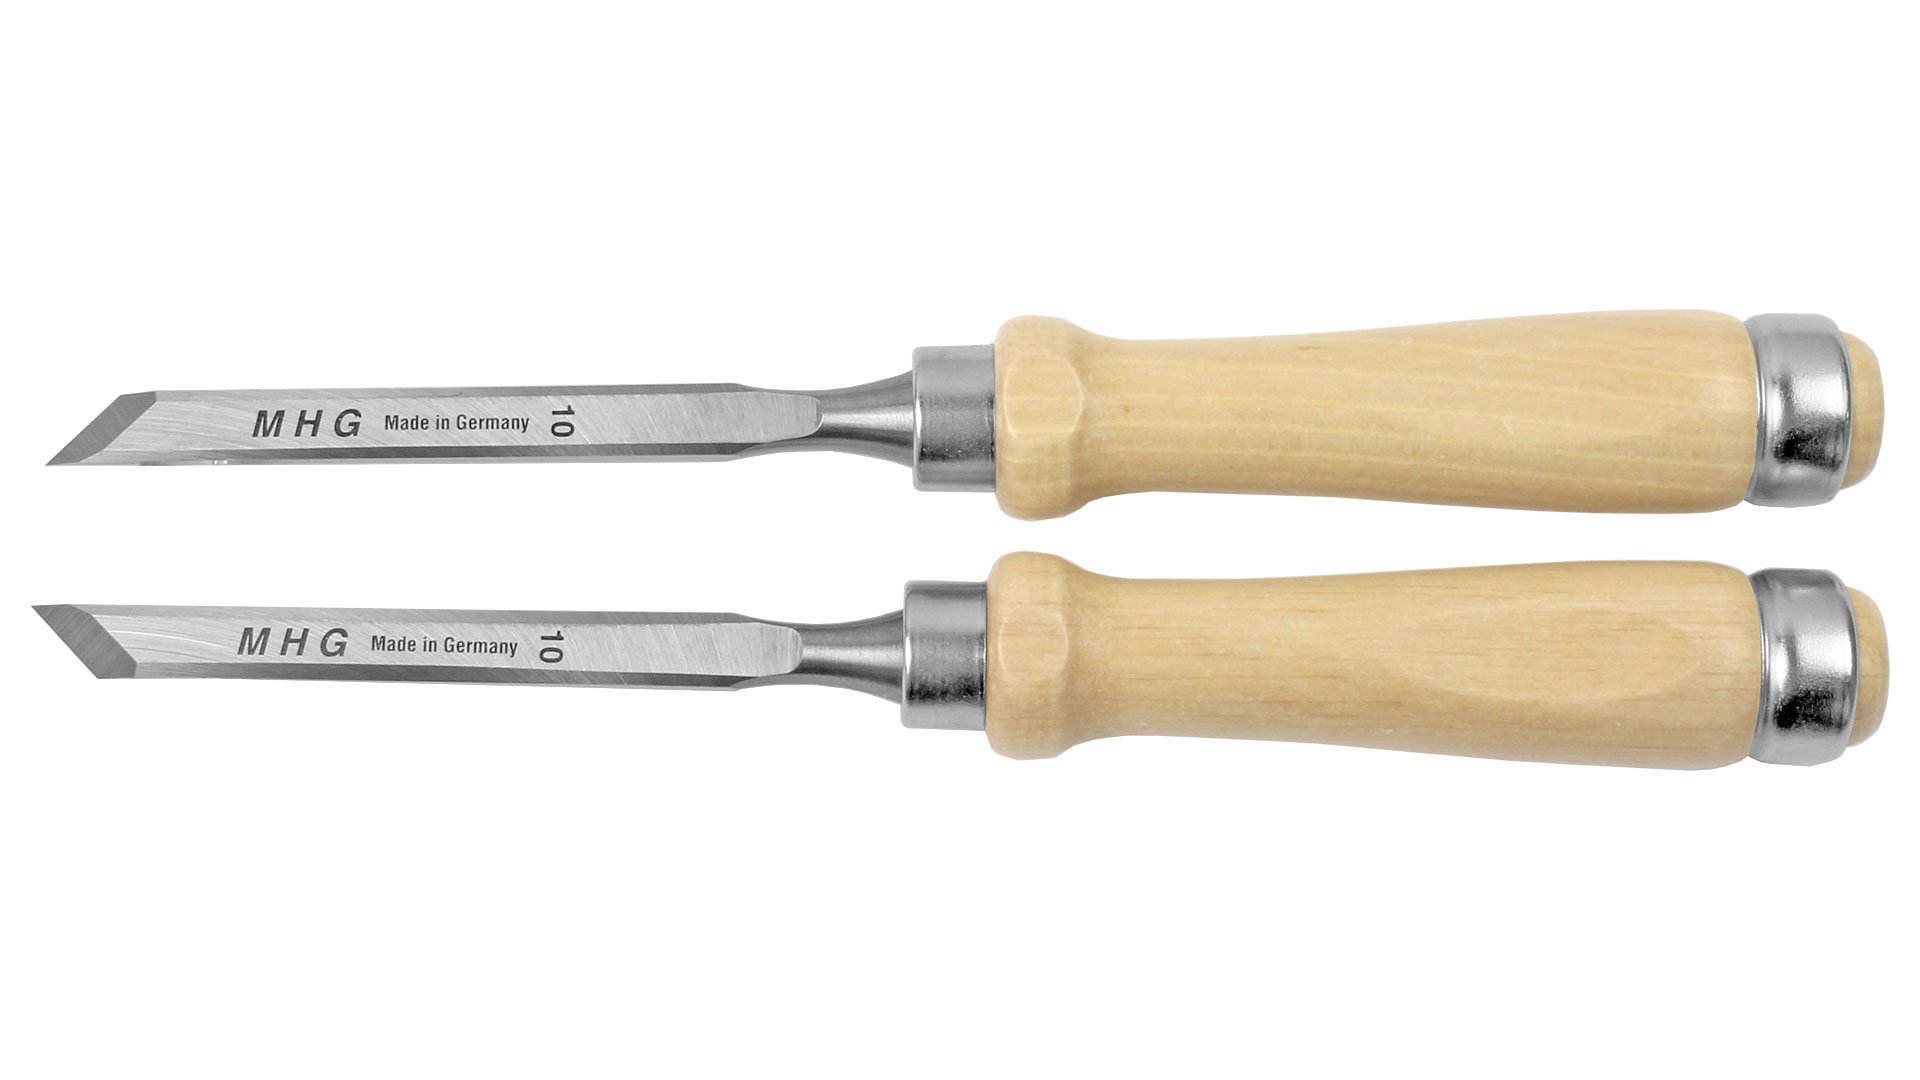
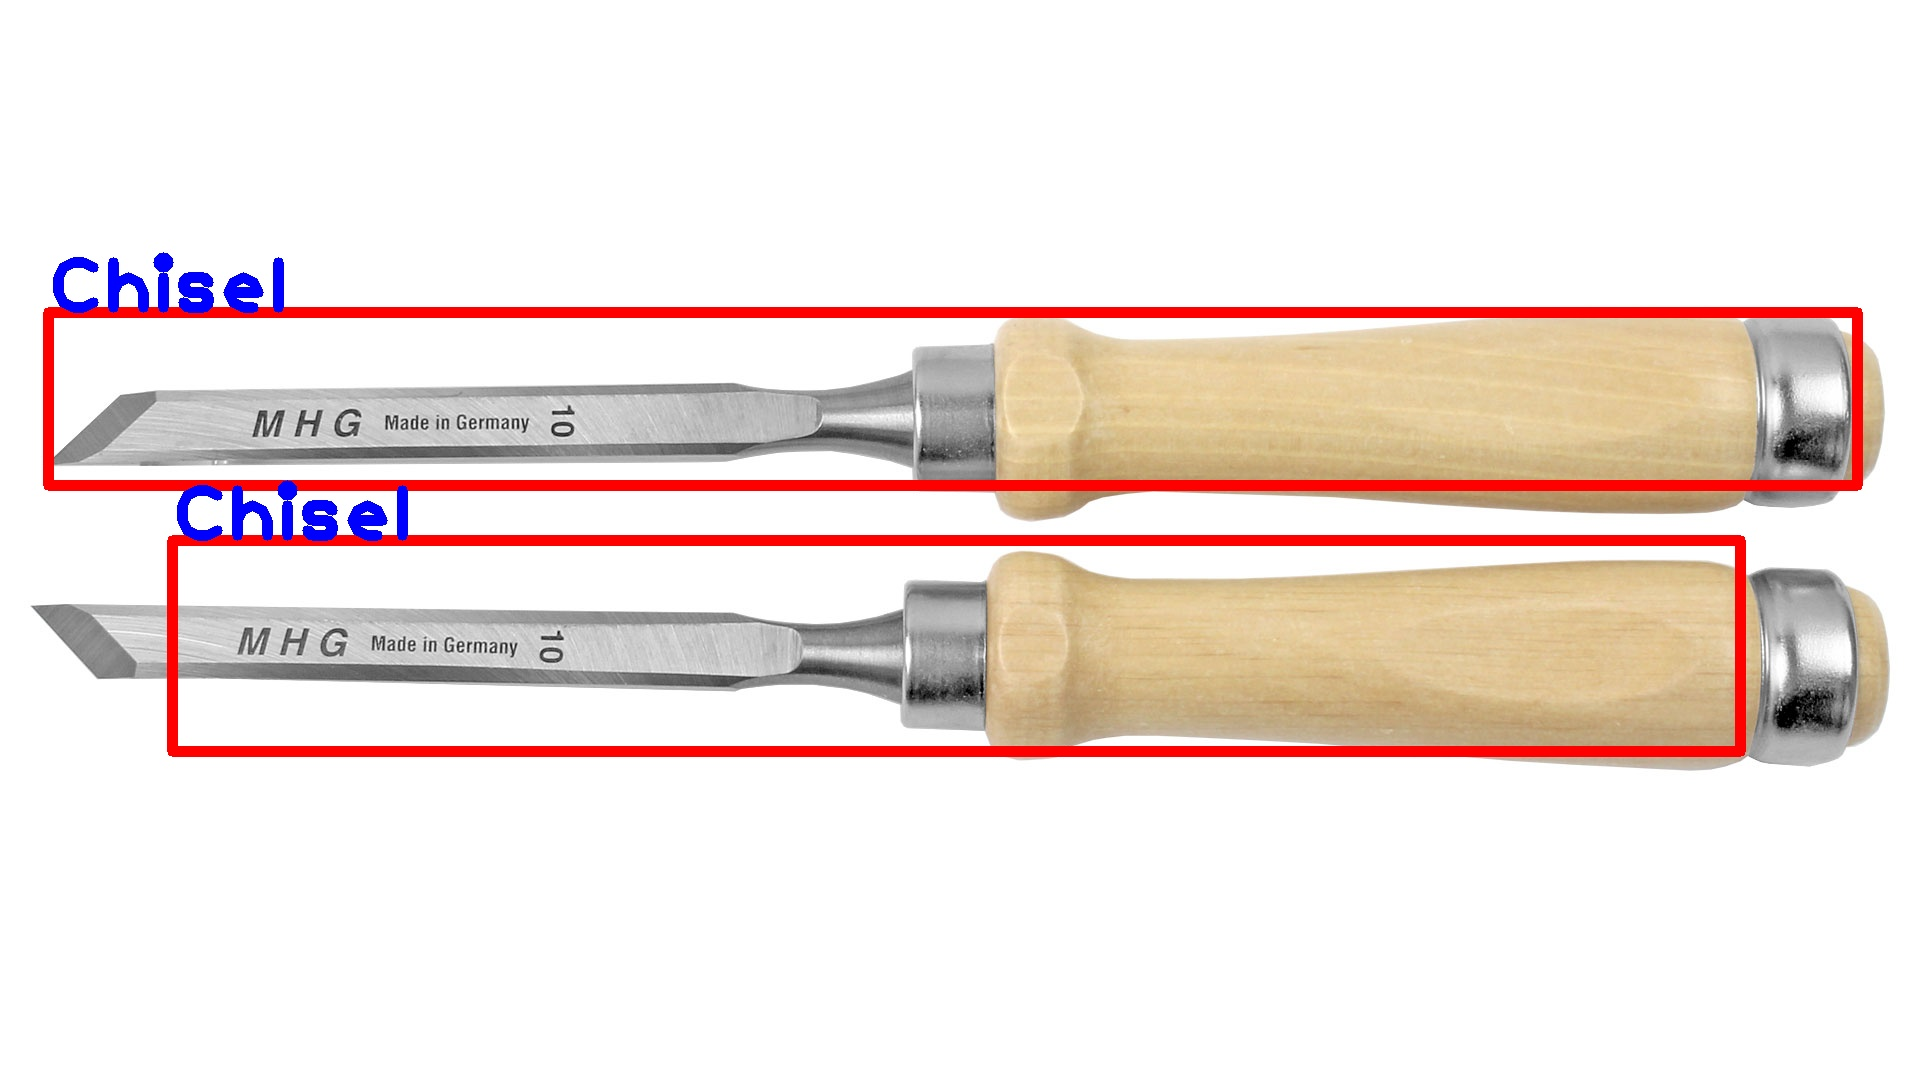
Added database file

Changed region(s): [[0.0, 0.2139, 0.9688, 0.7028]]

diff --git a/ToolDetection/util.py b/ToolDetection/util.py
@@ -75,16 +75,20 @@ def detect(path):
         else:
             classList[key]=1
 
+    for i in range(len(boxes)):
+        if i in indexes:
+            x, y, w, h = boxes[i]
+            label = classes[class_ids[i]]  # name of the objects
+            cv2.rectangle(img, (x, y), (x + w, y + h), (0, 0, 255), 10)
+            cv2.putText(img, label, (x, y), cv2.FONT_HERSHEY_PLAIN, 5, (255, 0, 0), 10)
+
+    cv2.imwrite(path,img)
+
     return classList
 
-    # for i in range(len(boxes)):
-    #     if i in indexes:
-    #         x, y, w, h = boxes[i]
-    #         label = classes[class_ids[i]]  # name of the objects
-    #         cv2.rectangle(img, (x, y), (x + w, y + h), (0, 255, 0), 2)
-    #         cv2.putText(img, label, (x, y), cv2.FONT_HERSHEY_PLAIN, 1, (0, 0, 255), 2)
+    
 
 
-    # cv2.imshow("Output",img)
+    
     # cv2.waitKey(0)
     # cv2.destroyAllWindows()
